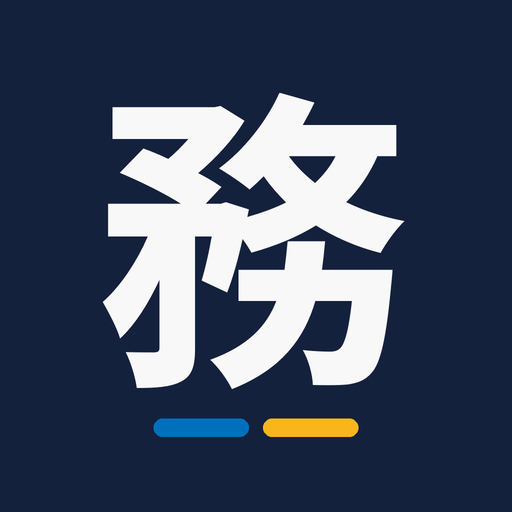
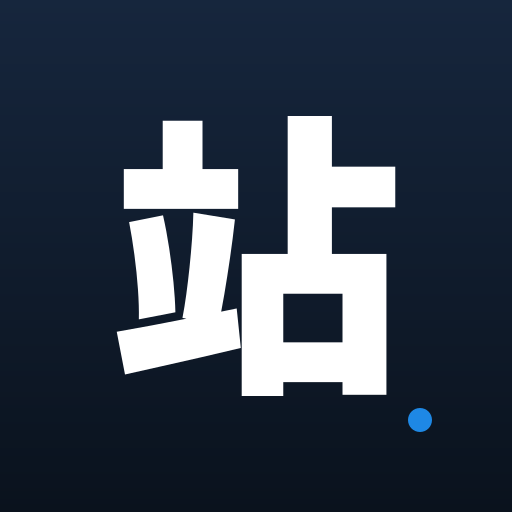
Add files via upload
station-assistant-mobile-github-v5.20.8

diff --git a/index.html b/index.html
@@ -733,17 +733,16 @@
     <button class="tab-btn" data-tab="personnel"><span class="icon">♙</span>事件/人員</button>
     <button class="tab-btn" data-tab="library"><span class="icon">▤</span>資料管理</button>
     <button class="tab-btn" data-tab="settings"><span class="icon">⚙</span>設定</button>
-    <div class="desktop-version">手機 PWA 測試版 v5.20.7 · 資料僅存本機</div>
+    <div class="desktop-version">手機 PWA 測試版 v5.20.8 · 資料僅存本機</div>
   </div>
 </div>
 
 <script>
-/* v5.20.7 2026-09-11：
-   1) 修正文件名稱命中會把整份文件所有段落都算命中的問題；正文命中頁／段落只計實際符合；
-   2) 搜尋段落點入 PDF 前以該段正文重新驗證實體 PDF 頁，避免搜尋索引與原始 PDF 定位錯位；
-   3) 常用程序待確認閱讀器新增「確認頁碼正確」，確認後清除提醒並保存新版正文快照；
-   4) 事件參與人員解析支援「小班＋值班站長／值班站務專員」等班別職稱；
-   5) 維持修訂／異動頁排除、文字模式階層、表格與 SOP 安全更新規則。 */
+/* v5.20.8 2026-09-21：
+   1) 多站事件人員可由每行前綴辨識車站，不再只依賴獨立車站標題；
+   2) 支援日班／夜班等班別、簡稱括號、缺少「於／在」的值勤敘述與「國館」別名；
+   3) 手機桌面圖示依系列 App v1.3 改為工作模板、白色「站」字與鈷藍索引圓點；
+   4) IndexedDB、工作資料格式及既有 PDF／搜尋／運量功能維持不變。 */
 pdfjsLib.GlobalWorkerOptions.workerSrc = './vendor/pdf.worker.min.js?v=5.19.0';
 
 /* ---------- IndexedDB layer ---------- */
@@ -3590,12 +3589,15 @@ function parseEventParticipants(raw,defaultStation=''){
   const lines=String(raw||'').replace(/\r/g,'').split('\n');
   const out=[];
   const roleNames=['值班站務專員','值班站務員','值班副站長','值班站長','站務專員','站務員','副站長','站長','保全','清潔人員','清潔'];
-  const shiftNames=['小班','早班','日班','夜班','晚班'];
+  const shiftNames=['大夜班','小夜班','小班','早班','日班','中班','夜班','晚班','支援'];
   const stationNames=[...new Set(eventStationOptions().map(r=>r.station).filter(Boolean))];
+  const stationAliases={'市府':'市政府','國館':'國父紀念館'};
+  const stationTokens=[...new Set([...stationNames,...Object.keys(stationAliases)])].sort((a,b)=>b.length-a.length);
   let stationContext=defaultStation||'';
+  const canonicalStation=name=>stationAliases[name]||stationNames.find(n=>n.replace(/站$/,'')===String(name||'').replace(/站$/,''))||name||'';
   const resolveStationHeading=line=>{
     const normalized=line.replace(/[。．.\s]/g,'').replace(/站$/,'');
-    return stationNames.find(n=>n.replace(/站$/,'')===normalized)||'';
+    return stationAliases[normalized]||stationNames.find(n=>n.replace(/站$/,'')===normalized)||'';
   };
   for(const rawLine of lines){
     const line=rawLine.trim();
@@ -3605,10 +3607,24 @@ function parseEventParticipants(raw,defaultStation=''){
     const heading=resolveStationHeading(line);
     if(heading){stationContext=heading;continue;}
 
-    // 支援：(簡稱XXX)/(以下簡稱XXX)，亦允許沒有簡稱；位置可用「於」或「在」。
-    const m=line.match(/^(.*?)(?:[（(](?:以下)?簡稱\s*([^）)]+)[）)])?\s*(?:於|在)\s*(.+?)[。．.]?$/);
-    if(!m) continue;
-    let before=m[1].trim(),alias=(m[2]||'').trim(),location=m[3].trim();
+    // 同時支援「昆陽站長…」「昆陽站日班保全…」、簡稱括號、缺少「於／在」等實務寫法。
+    let body=line.replace(/[。．.]$/,'').trim(),alias='',location='';
+    const aliasMatch=body.match(/[（(](?:以下)?簡稱\s*([^）)]+)[）)]/);
+    if(aliasMatch){
+      alias=aliasMatch[1].trim();
+      location=body.slice((aliasMatch.index||0)+aliasMatch[0].length).replace(/^\s*(?:於|在)?\s*/,'').trim();
+      body=body.slice(0,aliasMatch.index).trim();
+    }else{
+      const locationMatch=body.match(/^(.*?)\s*(?:於|在)\s*(.+)$/);
+      if(locationMatch){body=locationMatch[1].trim();location=locationMatch[2].trim();}
+    }
+    const stationToken=stationTokens.find(n=>body.startsWith(n+'站')||body.startsWith(n));
+    if(stationToken){
+      stationContext=canonicalStation(stationToken);
+      body=body.slice(stationToken.length).trim();
+      if(body.startsWith('站')&&!roleNames.some(r=>body.startsWith(r))) body=body.slice(1).trim();
+    }
+    let before=body;
     let shift='',role='',name=before;
     for(const sh of shiftNames){
       if(name.startsWith(sh)){shift=sh;name=name.slice(sh.length).trim();break;}
@@ -3616,6 +3632,7 @@ function parseEventParticipants(raw,defaultStation=''){
     for(const r of roleNames){
       if(name.startsWith(r)){role=r;name=name.slice(r.length).trim();break;}
     }
+    name=name.replace(/[。．.]$/,'').trim();
     if(!role || !name) continue;
     out.push({station:stationContext,shift,role:shift?`${shift}${role}`:role,name,alias,location});
   }
@@ -4213,7 +4230,7 @@ function renderSettings(){
       <div class="card settings-card" id="settings-search"><p class="panel-title">搜尋設定</p><p class="panel-note">管理智慧搜尋詞庫、同義詞及查無結果紀錄。</p><span class="badge">${cache.synonymGroups.length} 組詞庫</span></div><div class="card settings-card" id="settings-categories"><p class="panel-title">常用程序分類</p><p class="panel-note">自訂分類名稱、捷運作業 SVG 圖示、識別色與順序。</p><span class="badge">${getProcedureCategories().length} 個分類</span></div>
       <div class="card settings-card" id="settings-data"><p class="panel-title">資料與儲存</p><p class="panel-note">完整備份、還原與跨裝置資料移轉。</p><span class="badge">最近備份：${escapeHtml(lastBackup)}</span></div>
       <div class="card settings-card" id="settings-history"><p class="panel-title">搜尋歷史</p><p class="panel-note">目前保留最近 ${getSearchHistory().length} 筆搜尋，可在此清除。</p><button class="secondary" id="settings-clear-history">清除搜尋歷史</button></div>
-      <div class="card settings-card" id="settings-version"><p class="panel-title">版本資訊</p><p class="panel-note">資料維持瀏覽器本機離線。</p><dl class="version-info"><dt>程式版本</dt><dd>v5.20.7 測試版</dd><dt>基準版本</dt><dd>手機版 v5.19.0</dd><dt>更新日期</dt><dd>2026-09-11</dd><dt>資料格式</dt><dd>IndexedDB v4</dd><dt>本次更新</dt><dd>iPhone 日期欄位回歸修正：事件日期改由固定寬度外框承載原生日期控制項，避免 Safari／PWA 原生 date input 的 intrinsic width 撐出畫面；其餘 v5.20.6 事件版面、分類篩選焦點、40%／60% 參與人員欄寬與程序圖示維持不變。</dd></dl></div>
+      <div class="card settings-card" id="settings-version"><p class="panel-title">版本資訊</p><p class="panel-note">資料維持瀏覽器本機離線。</p><dl class="version-info"><dt>程式版本</dt><dd>v5.20.8 測試版</dd><dt>基準版本</dt><dd>手機版 v5.20.7</dd><dt>更新日期</dt><dd>2026-09-21</dd><dt>資料格式</dt><dd>IndexedDB v4</dd><dt>本次更新</dt><dd>多站事件人員解析支援每行車站前綴、班別、簡稱、缺少「於／在」及「國館」別名；桌面圖示改依系列 App v1.3 使用「站」字、工作模板漸層與鈷藍索引圓點。資料格式與其他功能不變。</dd></dl></div>
     </div>`;
   document.getElementById('settings-search').onclick=openSynonymManager;
   document.getElementById('settings-data').onclick=openDataMgmt;
@@ -4278,7 +4295,7 @@ function openDataMgmt(){
     <div class="modal-header"><span style="font-weight:500;">資料管理</span>
       <button id="dm-close" class="modal-close-btn" aria-label="關閉">✕</button></div>
     <div class="modal-body">
-      <p class="tiny-muted" style="margin-top:0;">手機 PWA 測試版 v5.20.7・2026.09.11</p>
+      <p class="tiny-muted" style="margin-top:0;">手機 PWA 測試版 v5.20.8・2026.09.21</p>
       <p class="muted">「工作資料」包含常用程序、分類名稱／顏色／順序、程序圖示、通告、事件與人員，可手動傳到另一台裝置匯入；各裝置資料不會自動同步。</p>
       <button class="secondary" id="dm-transfer-export" style="width:100%;margin-bottom:10px;">匯出工作資料</button>
       <button class="secondary" id="dm-transfer-import" style="width:100%;margin-bottom:18px;">匯入工作資料</button>

diff --git a/sw.js b/sw.js
@@ -1,4 +1,4 @@
-const CACHE_NAME = 'station-assistant-mobile-github-v5.20.7';
+const CACHE_NAME = 'station-assistant-mobile-github-v5.20.8';
 const APP_SHELL = [
   './',
   './index.html',

diff --git a/CHANGELOG.md b/CHANGELOG.md
@@ -1,3 +1,10 @@
+## v5.20.8｜2026-09-21
+- 多站事件人員解析可從每一行的車站前綴分組，支援「昆陽站長」「昆陽站日班保全」等寫法。
+- 支援日班、夜班、小班等班別、簡稱括號，以及簡稱後省略「於／在」的位置或工作內容。
+- 新增「市府」對應「市政府」、「國館」對應「國父紀念館」的站名別稱。
+- 手機桌面圖示依系列 App v1.3 改為工作模板 A、白色「站」字及右下鈷藍索引圓點；PWA 圖示 purpose 改為 `any`。
+- IndexedDB 與工作資料格式不變；Service Worker 快取版本同步更新為 v5.20.8。
+
 ## v5.20.7｜2026-09-11
 - 修正 iPhone Safari／PWA 事件編輯頁原生 `input[type=date]` 仍可能依 intrinsic width 撐出螢幕右側的回歸問題。
 - 事件日期改由固定寬度容器承載原生日期控制項，外框由容器負責；原生 date input 使用 `-webkit-fill-available` 並限制 inline size，保留 iOS 日期選擇器。

diff --git a/README.md b/README.md
@@ -3,7 +3,7 @@
 - 日期欄位保留 iPhone 原生日期選擇器；只修正外框與控制項寬度，不改事件資料格式。
 - 保留 v5.20.6 的分類篩選焦點修正、事件檢核／改善卡片間距、40%／60% 參與人員欄寬與程序圖示。
 
-# 站務工作助手：手機 GitHub Pages PWA 測試版 v5.20.7
+# 站務工作助手：手機 GitHub Pages PWA 測試版 v5.20.8
 
 這個版本供手機透過 GitHub Pages 安裝使用。手機採單欄及底部分頁操作；程式、PDF與Excel解析套件及介面資源都包含在本資料夾內，不使用外部CDN、雲端資料庫、分析服務或後端API。公司電腦請改用另外提供的電腦版HTML，不要直接雙擊本資料夾的 `index.html`。
 
